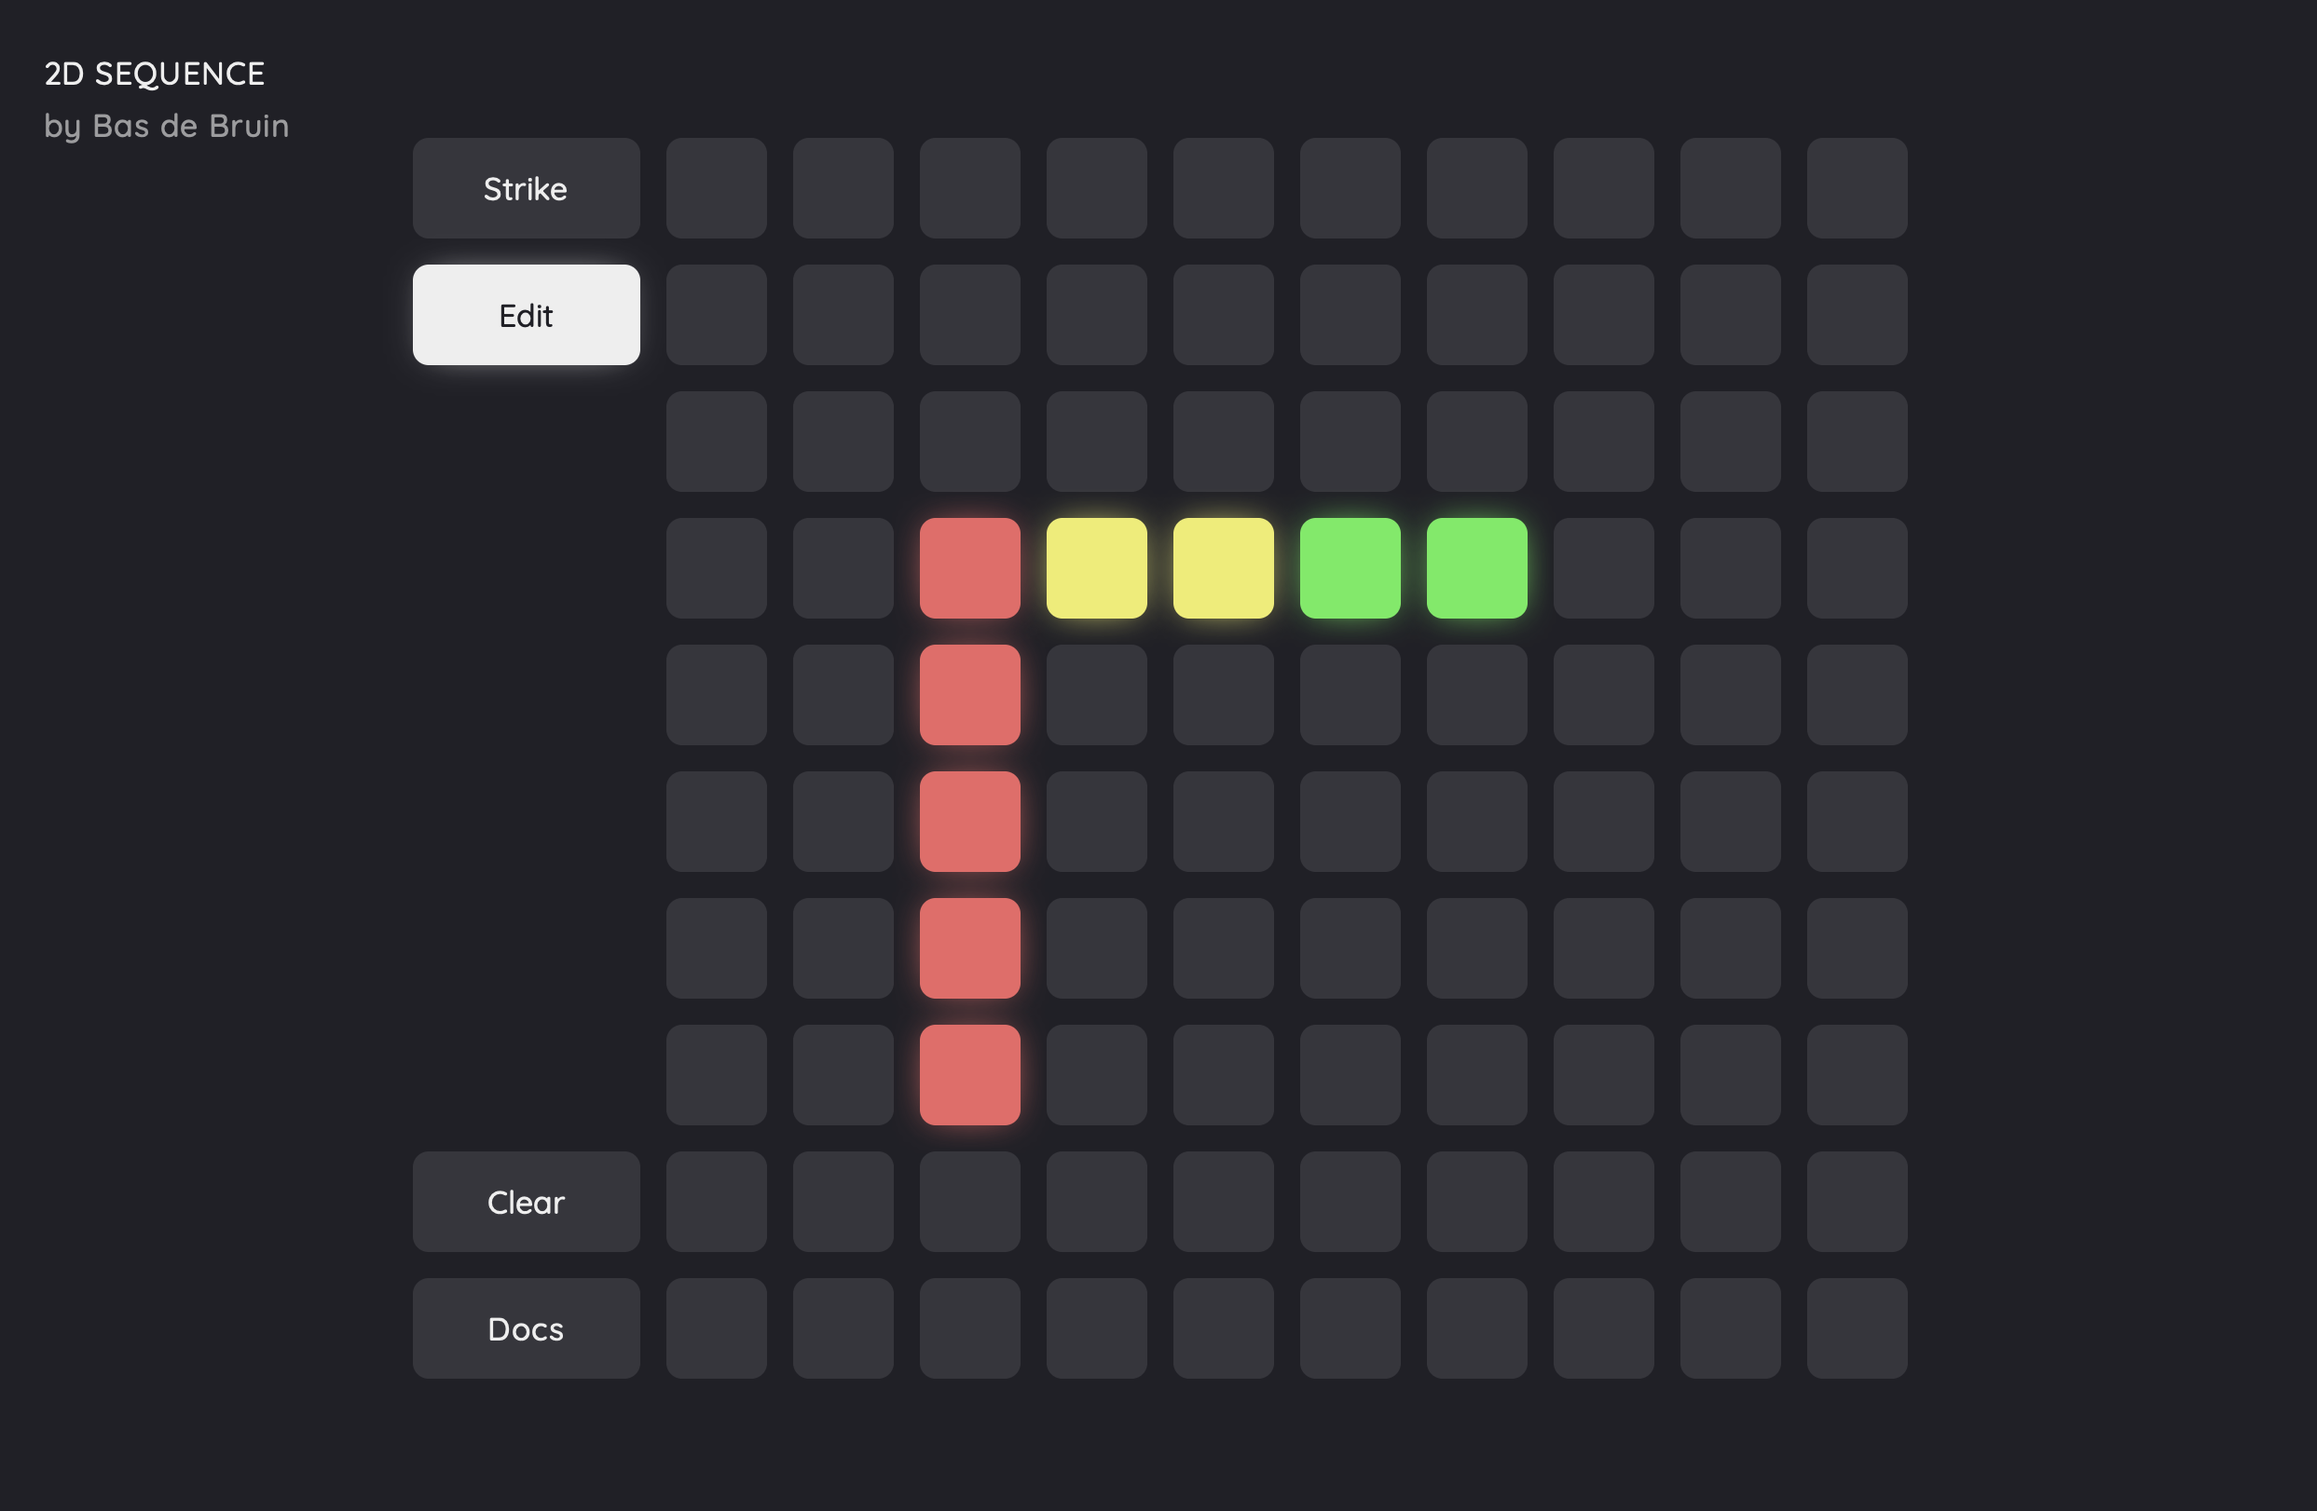
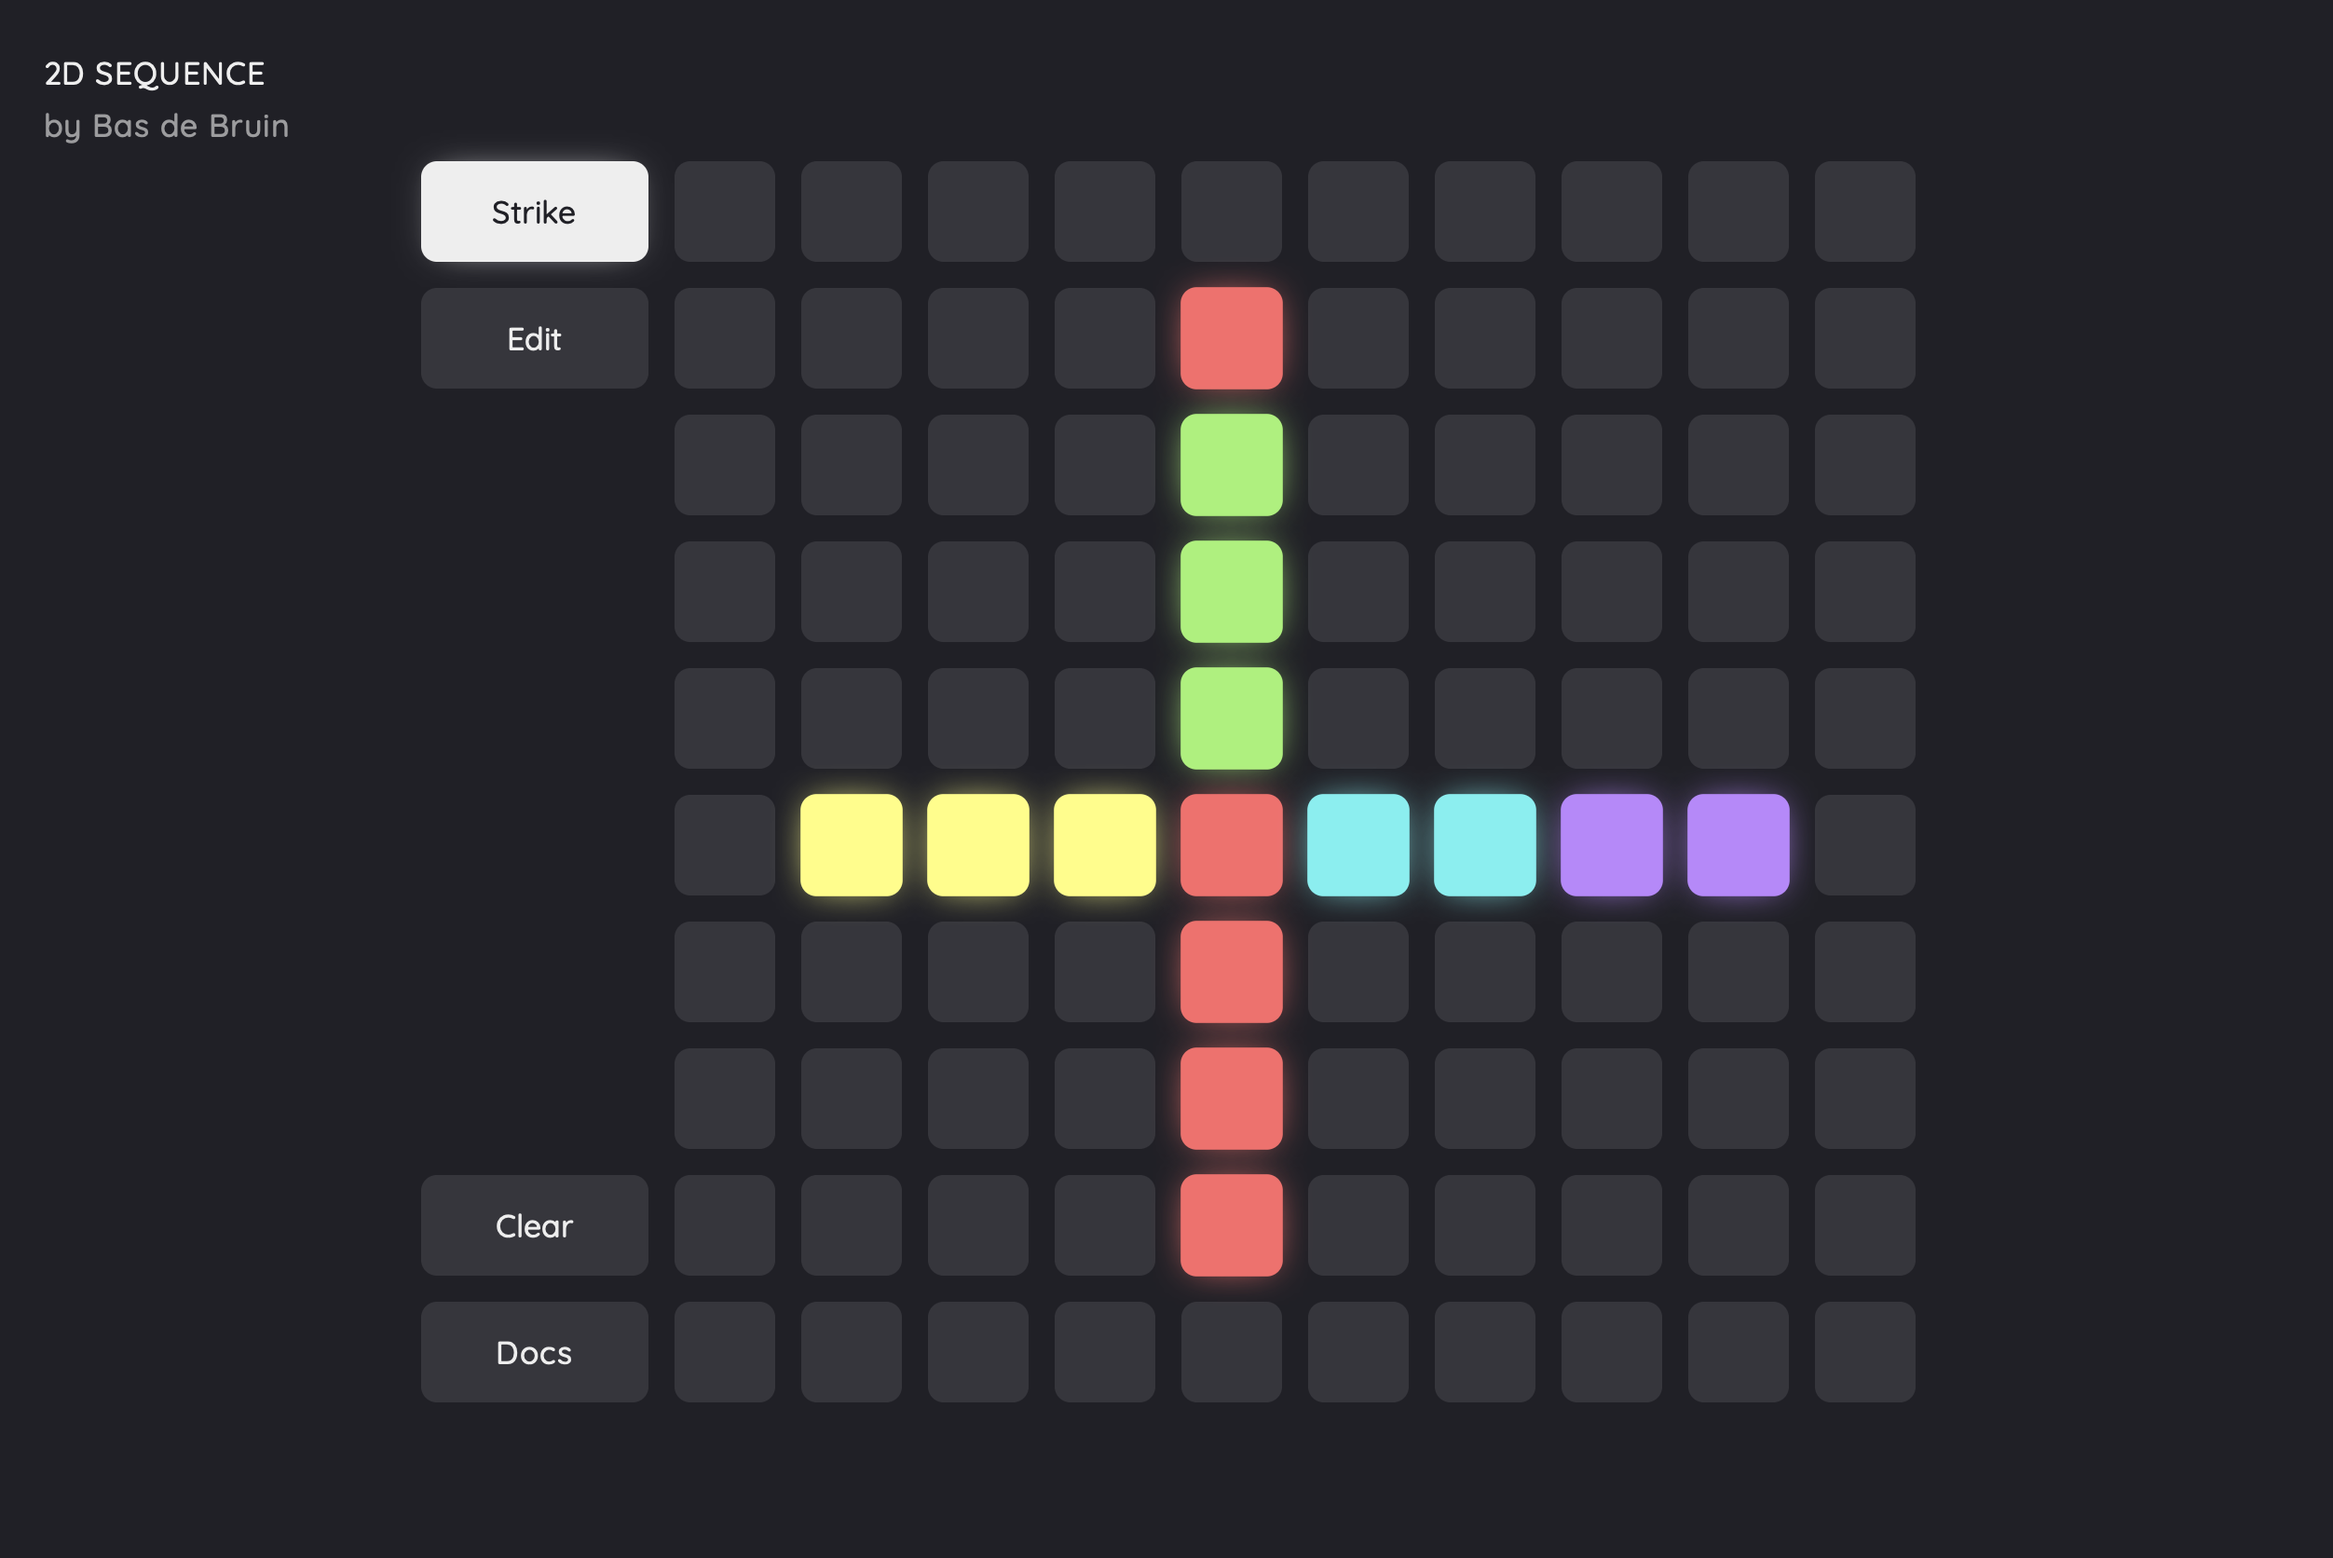
added more notes and reverb

diff --git a/synth.js b/synth.js
@@ -1,19 +1,18 @@
 // synth definition
 // bas de bruin
 
-// define new Tone membrane synth
-// const synth = new Tone.MembraneSynth({
-//     pitchDecay: 0.01,
-//     octaves: 1,
-
-//     volume: -10
-// }).toMaster();
+// define polyphonic synth with reverb
+const reverb = new Tone.Freeverb({
+    roomSize: 0.85,
+    dampening: 2000,
+    wet: 0.02
+}).toMaster();
 
 const synth = new Tone.PolySynth(6, Tone.MonoSynth, {
     oscillator: {
         type: "sawtooth"
     },
-    volume: -10,
+    volume: -20,
     filter: {
         Q: 4,
     },
@@ -26,4 +25,4 @@ const synth = new Tone.PolySynth(6, Tone.MonoSynth, {
         octaves: 4,
         exponent: 2
     }
-}).toMaster();
+}).connect(reverb);

diff --git a/button.js b/button.js
@@ -3,9 +3,11 @@
 
 const buttonStates = [
     { color: '#36363D' },  // inactive
-    { color: '#e66', note: 'C4' },
-    { color: '#5e5', note: 'G4' },
-    { color: '#ee6', note: 'E5' }
+    { color: '#FF6969', note: 'C3' },
+    { color: '#FFFF7A', note: 'G3' },
+    { color: '#9BF46D', note: 'D4' },
+    { color: '#65F1F1', note: 'A4' },
+    { color: '#BE83FF', note: 'E5' },
 ];
 
 class Button {
